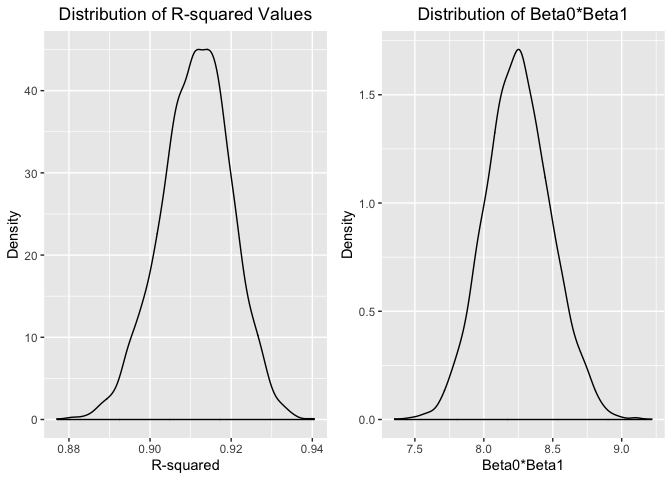
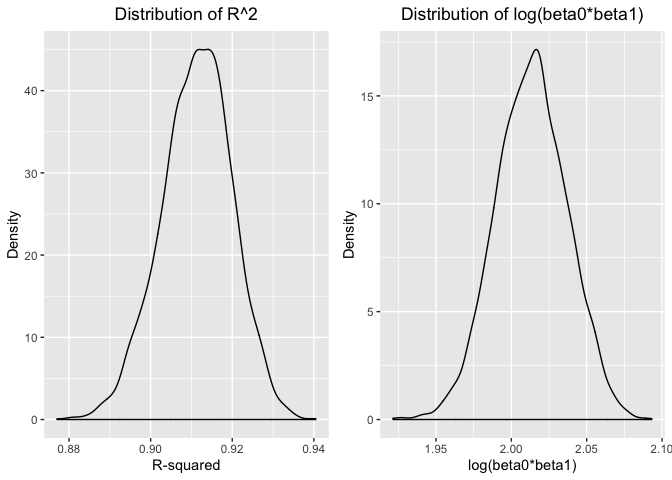
fixing log(beta0*beta1)

diff --git a/p8105_hw6_sm4594.md b/p8105_hw6_sm4594.md
@@ -363,7 +363,7 @@ mutate(
   ggplot(aes(x = r.squared)) + 
     geom_density() +
     labs(
-      title = "Distribution of R-squared Values",
+      title = "Distribution of R^2",
       x = "R-squared",
       y = "Density") +
     theme(plot.title = element_text(hjust = 0.5))
@@ -380,12 +380,12 @@ beta_plot = weather_bootstrap %>%
   ) %>% 
   unnest() %>% 
   janitor::clean_names() %>% 
-  mutate(intercept_beta1 = intercept + tmin) %>% 
+  mutate(intercept_beta1 = log(intercept*tmin)) %>% 
     ggplot(aes(x = intercept_beta1)) + 
       geom_density() +
       labs(
-        title = "Distribution of Beta0*Beta1",
-        x = "Beta0*Beta1",
+        title = "Distribution of log(beta0*beta1)",
+        x = "log(beta0*beta1)",
         y = "Density") +
       theme(plot.title = element_text(hjust = 0.5))
 ```
